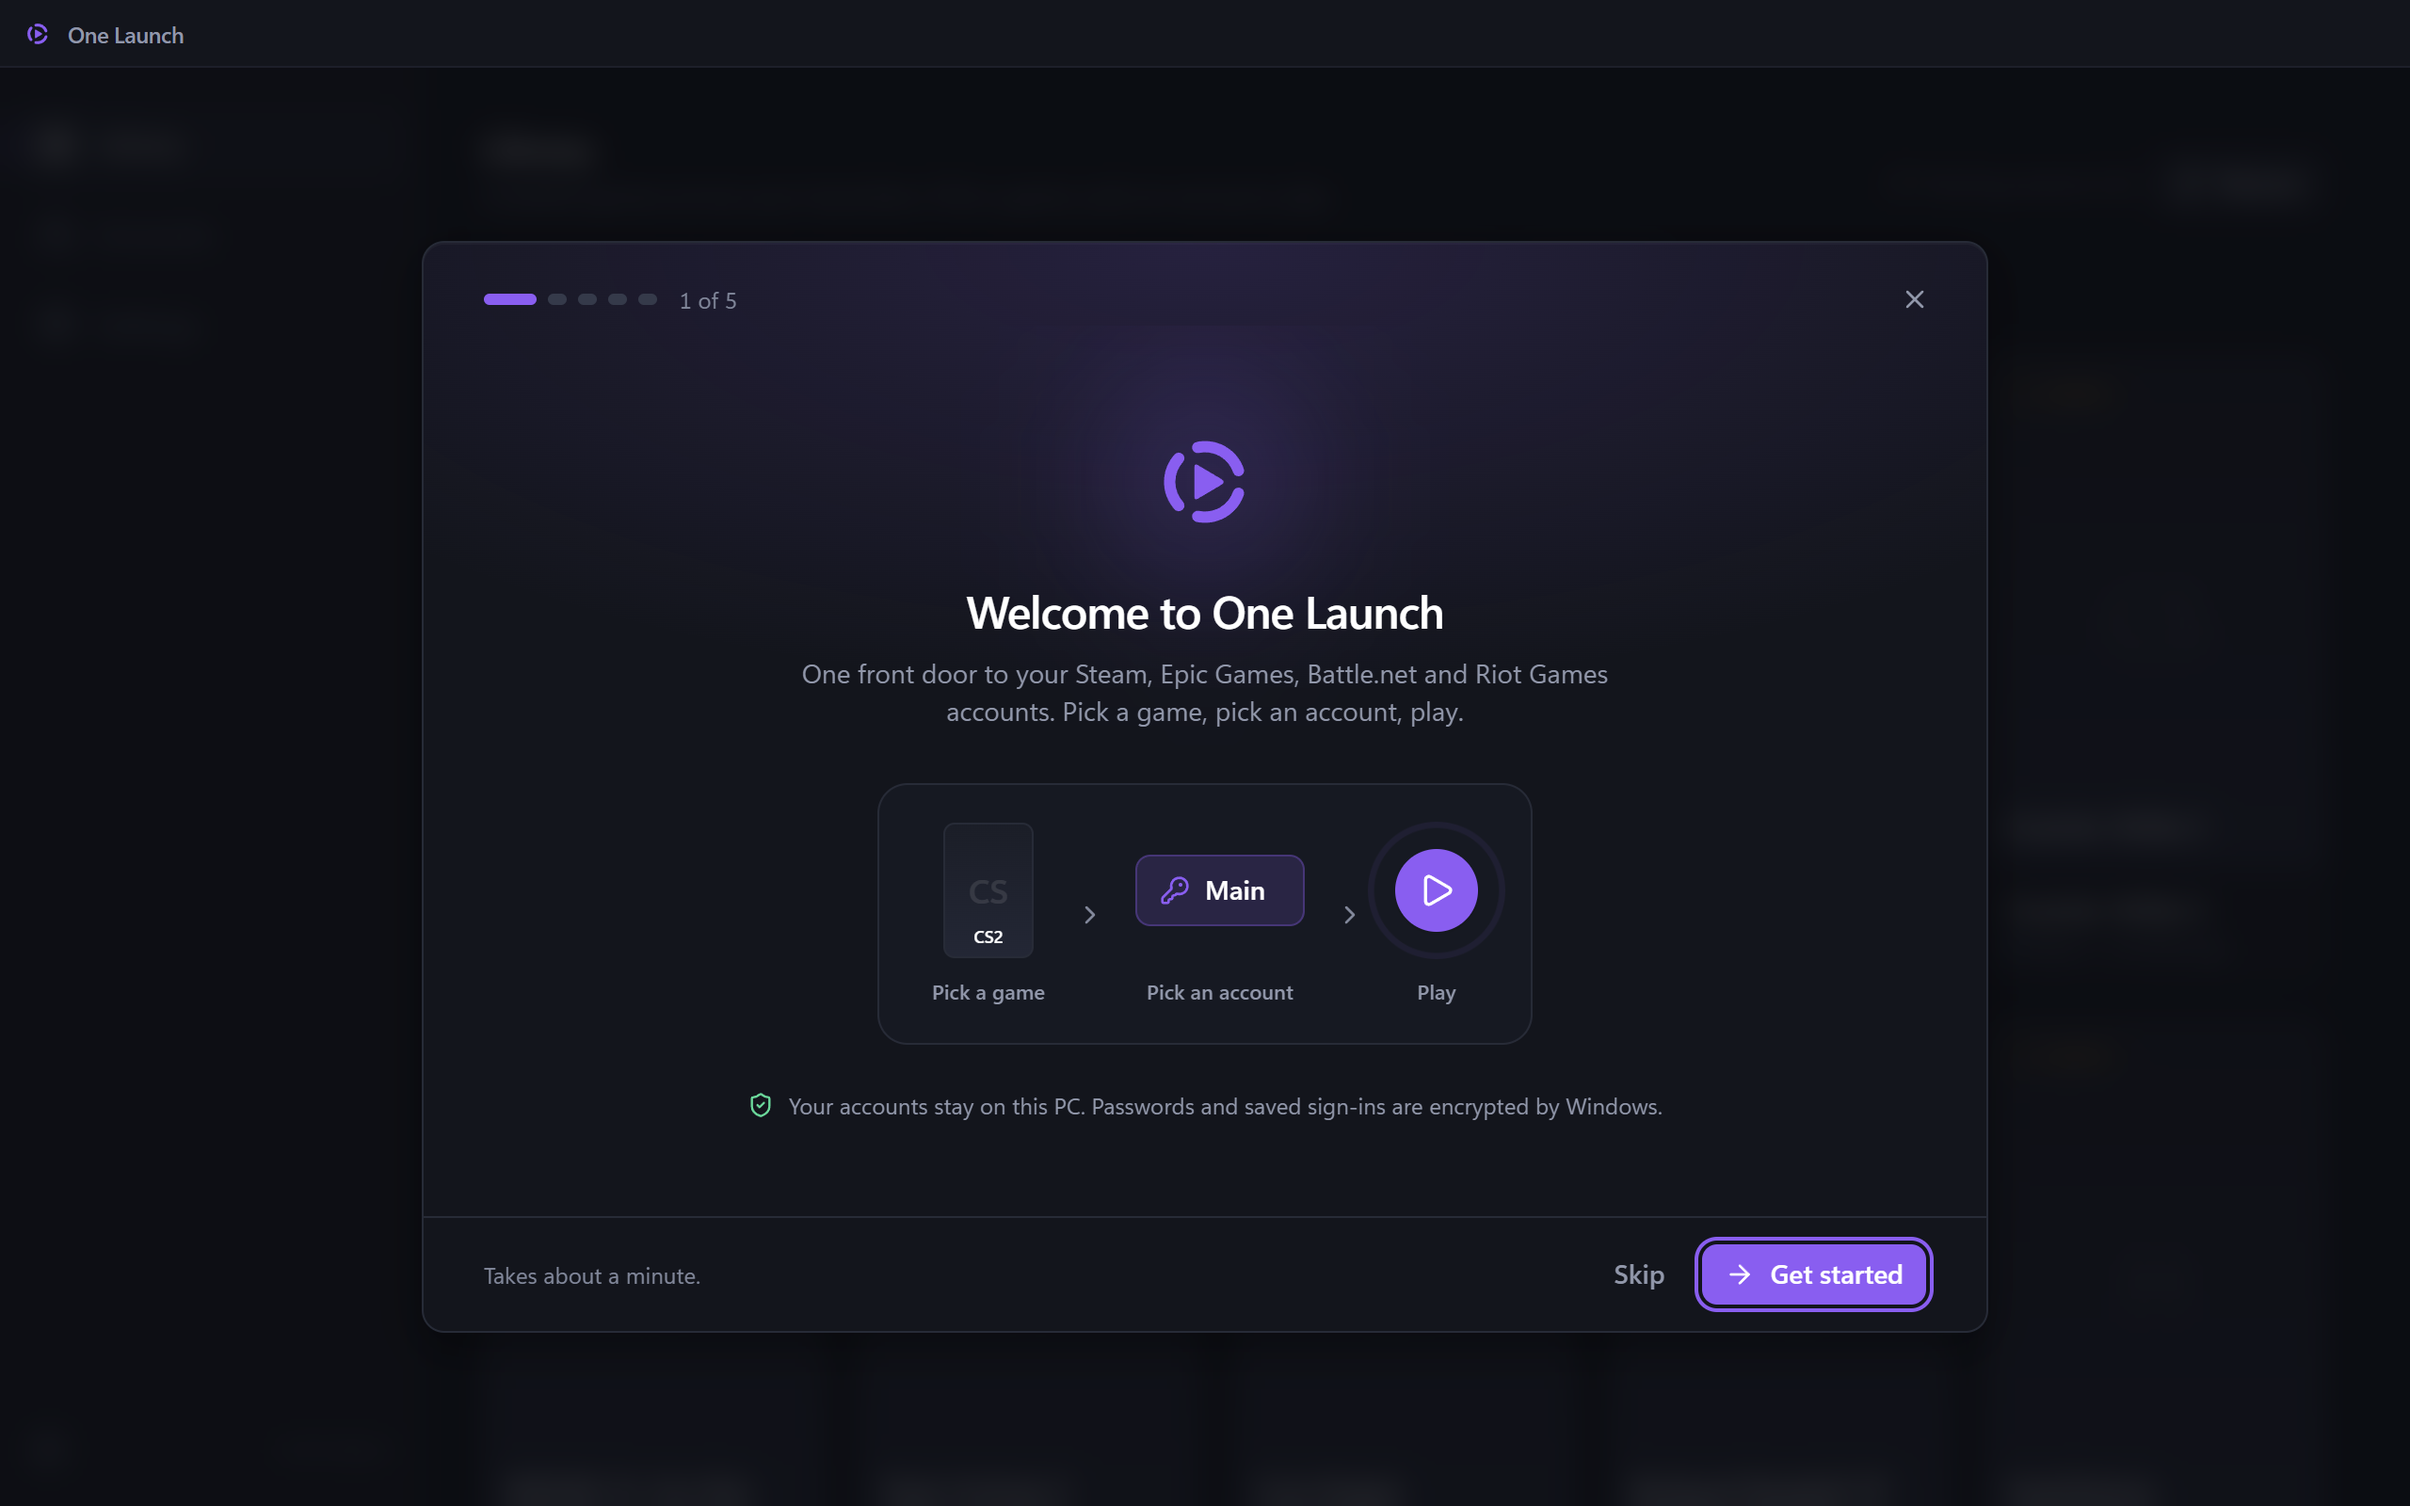
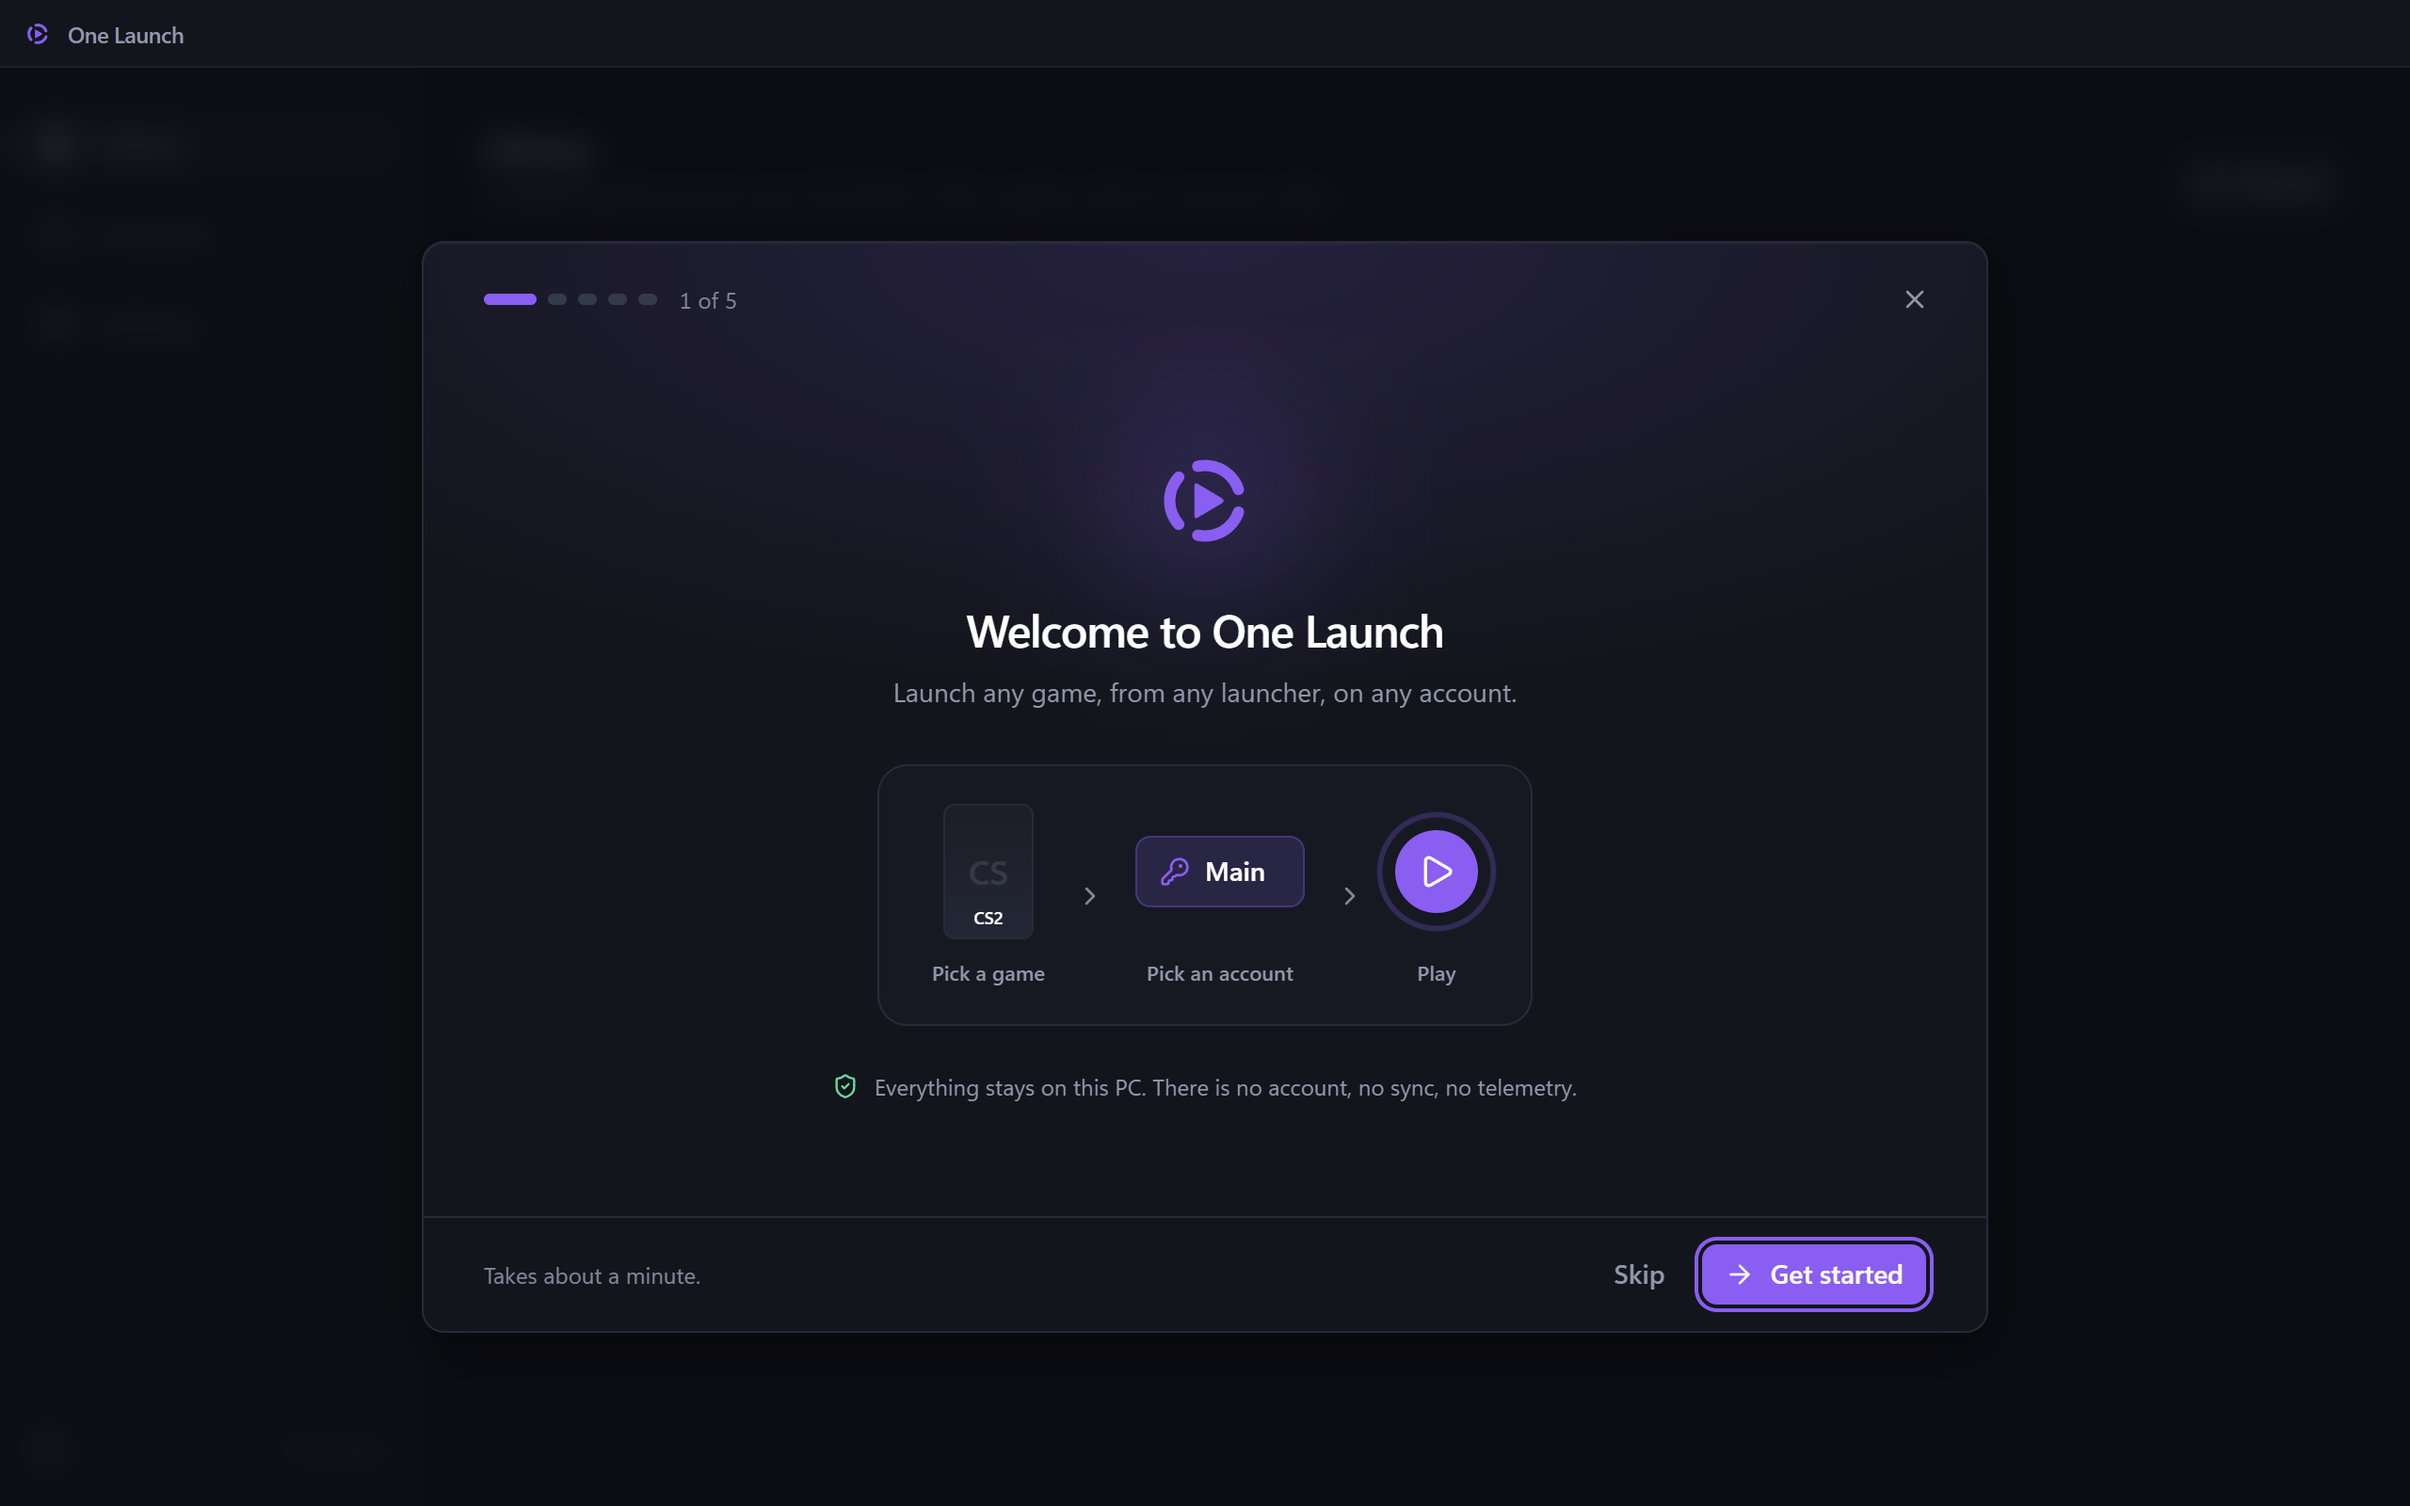
Use one tagline across the app and reword the setup guide's welcome

diff --git a/src/renderer/src/components/SetupGuideSteps.tsx b/src/renderer/src/components/SetupGuideSteps.tsx
@@ -62,14 +62,14 @@ export function WelcomeStep() {
         Welcome to One Launch
       </h2>
       <p className="guide-rise mt-2 max-w-md text-sm text-muted" style={{ animationDelay: '120ms' }}>
-        One front door to your Steam, Epic Games, Battle.net and Riot Games accounts. Pick a game, pick an account, play.
+        Launch any game, from any launcher, on any account.
       </p>
       <div className="guide-rise mt-7" style={{ animationDelay: '200ms' }}>
         <FlowArt />
       </div>
       <p className="guide-rise mt-6 inline-flex items-center gap-2 text-xs text-muted" style={{ animationDelay: '320ms' }}>
         <ShieldCheck className="size-3.5 shrink-0 text-success" />
-        Your accounts stay on this PC. Passwords and saved sign-ins are encrypted by Windows.
+        Everything stays on this PC. There is no account, no sync, no telemetry.
       </p>
     </div>
   );

diff --git a/docs/README.md b/docs/README.md
@@ -1,6 +1,6 @@
 # One Launch docs
 
-One Launch is a Windows desktop app that is the single front door to a user's PC games and game accounts: **pick a game, pick an account, play.** It keeps many accounts per launcher (Steam, Epic Games, Battle.net, Riot Games), switches the launcher to the chosen account (closing, rewriting its files or registry values, restarting it, confirming the sign-in), and starts the game through the launcher. It does not replace the launchers; it orchestrates them.
+One Launch is a Windows desktop app that launches any game, from any launcher, on any account: **pick a game, pick an account, play.** It keeps many accounts per launcher (Steam, Epic Games, Battle.net, Riot Games), switches the launcher to the chosen account (closing, rewriting its files or registry values, restarting it, confirming the sign-in), and starts the game through the launcher. It does not replace the launchers; it orchestrates them.
 
 Stack: Electron, React + Vite + Tailwind, TypeScript (strict), better-sqlite3, secrets encrypted with DPAPI via Electron `safeStorage`, electron-updater. A private beta; the version is in `package.json`.
 

diff --git a/CLAUDE.md b/CLAUDE.md
@@ -1,6 +1,6 @@
 # One Launch
 
-Windows desktop app (Electron, React + Vite + Tailwind, TypeScript strict, better-sqlite3, DPAPI vault): one front door to the user's Steam, Epic, Battle.net, and Riot Games accounts and installed games. Pick a game, pick an account, play. Private beta; current work is polish, UI tweaks, quality-of-life, and bug fixes.
+Windows desktop app (Electron, React + Vite + Tailwind, TypeScript strict, better-sqlite3, DPAPI vault): launch any game, from any launcher, on any account (Steam, Epic, Battle.net, Riot Games). Pick a game, pick an account, play. Private beta; current work is polish, UI tweaks, quality-of-life, and bug fixes.
 
 Docs live in `docs/`; start at `docs/README.md` and read only the file the task needs.
 

diff --git a/README.md b/README.md
@@ -1,6 +1,6 @@
 # One Launch
 
-Launch any game, from any launcher, on any account, from One Launch.
+Launch any game, from any launcher, on any account.
 
 <img src="docs/screenshots/setup-guide.png" alt="The One Launch setup guide" width="60%">
 
